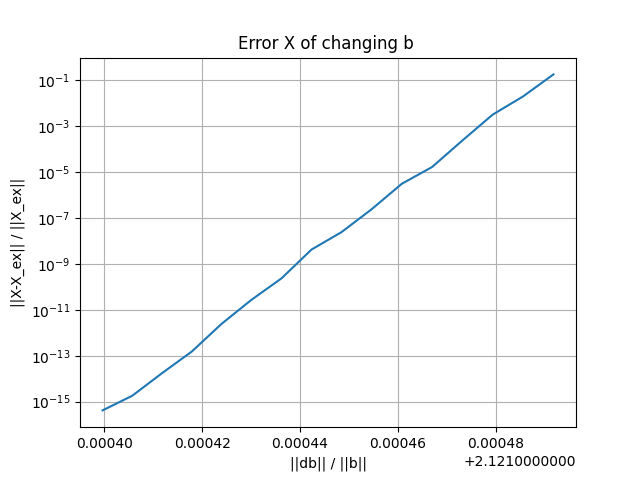
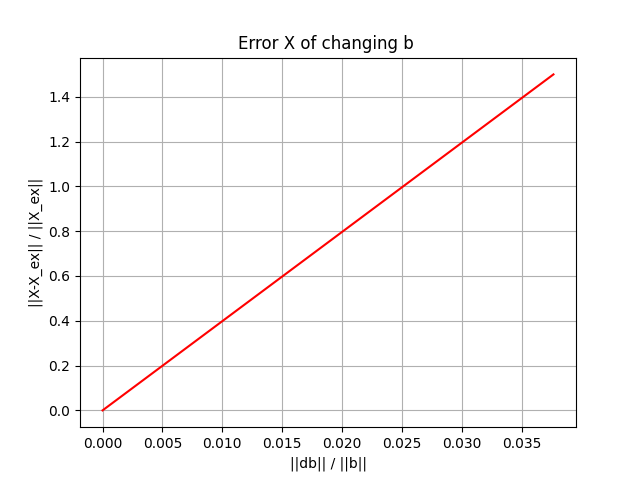
feat&fix: changes  - separate graphics.py on functions to plot the graphics and functions to get data for graphics  - fix functions to get property graphs

diff --git a/Lab2/graphics.py b/Lab2/graphics.py
@@ -1,33 +1,7 @@
 import numpy as np
 from matplotlib import pyplot as plt
 import functions
-
-x_ex = np.ones(10)
-
-
-def create_Ab():
-    list_of_A = []
-    list_of_b = []
-    cond = 10
-    for i in range(16):
-        A = functions.create_rand_symetric_matrix_with_defined_cond(10, cond)
-        list_of_A.append(A)
-        b = A.dot(x_ex)
-        list_of_b.append(b)
-        cond *= 10
-
-    return list_of_A, list_of_b
-
-
-# Creating random  A matrices with cond from 10 till 10**16 and b vectors
-A, b = create_Ab()
-
-# writing to files matrices for using method
-functions.write_to_file_matrix(A, "A.csv")
-functions.write_to_file_matrix(b, "b.csv")
-
-# reading results of using method from file
-x = functions.read_from_file("X1.csv")
+from data_getting import x_ex, x, x2, list_of_b2
 
 
 def graph_err_of_cond():
@@ -36,7 +10,6 @@ def graph_err_of_cond():
 
     for i in range(16):
         x_rel_error.append(np.linalg.norm(x[i] - x_ex) / np.linalg.norm(x_ex))
-        print(np.linalg.norm(x[i] - x_ex))
         cond.append(10 ** (i + 1))
     plt.figure(1)
     plt.grid()
@@ -52,46 +25,26 @@ def graph_err_of_cond():
 graph_err_of_cond()
 
 
-def data_for_2_graph():
-    list_of_b2 = []
-    A2 = functions.create_rand_symmetric_matrix_with_defined_cond(10, 100)
-    b2 = A2.dot(x_ex)
-    list_of_b2.append(b2)
-
-    for i in range(16):
-        b2 = b2 + 0.001
-        list_of_b2.append(b2)
-
-    functions.write_to_file_matrix(A2, "A2.csv")
-    functions.write_to_file_matrix(list_of_b2, "b2.csv")
-
-    return list_of_b2
-
-
-b2 = data_for_2_graph()[0]
-list_of_b2 = data_for_2_graph()
-
-
 def graph_err_of_b_changing():
     x_rel_error2 = []
     err_db = []
 
     for i in range(16):
-        x_rel_error2.append(np.linalg.norm(x[i] - x_ex) / np.linalg.norm(x_ex))
+        x_rel_error2.append(np.linalg.norm(x2[i] - x_ex) / np.linalg.norm(x_ex))
 
     for i in range(16):
-        err_db.append(np.linalg.norm(b2 - list_of_b2[i]) / np.linalg.norm(b2))
+        err_db.append(np.linalg.norm(list_of_b2[0] - list_of_b2[i]) / np.linalg.norm(list_of_b2[0]))
 
     plt.figure(2)
     plt.grid()
     plt.ylabel('||X-X_ex|| / ||X_ex||')
     plt.xlabel('||db|| / ||b||')
-    plt.yscale('log')
+    # plt.yscale('log')
     # plt.xscale('log')
     plt.title("Error X of changing b ")
-    plt.plot(err_db, x_rel_error2)
+    plt.plot(err_db, x_rel_error2, color='red')
 
 
-
+# График зависимости отн погрешности решений от относительнйо погрешности возмущений вектора свободных членов
 graph_err_of_b_changing()
 plt.show()

diff --git a/Lab2/data_getting.py b/Lab2/data_getting.py
@@ -1,0 +1,49 @@
+import numpy as np
+from matplotlib import pyplot as plt
+import functions
+
+x_ex = np.ones(10)
+
+
+def create_Ab():
+    list_of_A = []
+    list_of_b = []
+    cond = 10
+    for i in range(16):
+        A = functions.create_rand_symmetric_matrix_with_defined_cond(10, cond)
+        list_of_A.append(A)
+        b = A.dot(x_ex)
+        list_of_b.append(b)
+        cond *= 10
+
+    return list_of_A, list_of_b
+
+
+# Creating random  A matrices with cond from 10 till 10**16 and b vectors
+A, b = create_Ab()
+
+# writing to files matrices for using method
+functions.write_to_file_matrix(A, "A.csv")
+functions.write_to_file_matrix(b, "b.csv")
+
+# reading results of using method from file
+x = functions.read_from_file("X1.csv")
+x2 = functions.read_from_file("X2.csv")
+
+
+def data_for_2_graph():
+    list_of_b2 = []
+    A2 = functions.create_rand_symmetric_matrix_with_defined_cond(10, 1000)
+    b2 = A2.dot(x_ex)
+    list_of_b2.append(b2)
+    db = b2
+    for i in range(16):
+        db = db + 0.1
+        list_of_b2.append(db)
+    functions.write_to_file_matrix(A2, "A2.csv")
+    functions.write_to_file_matrix(list_of_b2, "b2.csv")
+
+    return list_of_b2
+
+
+list_of_b2 = data_for_2_graph()

diff --git a/Lab2/functions.py b/Lab2/functions.py
@@ -1,12 +1,12 @@
 import numpy as np
 import csv
 import random
-from decimal import Decimal
+
 
 N = 10
 
 
-# def create_rand_symetric_matrix_with_defined_cond(n, cond):
+# def create_rand_symmetric_matrix_with_defined_cond(n, cond):
 #     log_cond = np.log(cond)
 #     exp_vec = np.arange(-log_cond / 4., log_cond * (n + 1) / (4 * (n - 1)), log_cond / (2. * (n - 1)))
 #     s = np.exp(exp_vec)
@@ -57,7 +57,7 @@ def write_to_file_matrix(list_of_matrices, name_of_file):
             return 0
         for i in range(16):
             matrix = list_of_matrices[i]
-            if name_of_file == "b.csv" or name_of_file == "b2.csv": #if it's vector
+            if name_of_file == "b.csv" or name_of_file == "b2.csv":  # if it's vector
                 writer.writerow(matrix)
                 writer.writerow('\t')
                 continue
